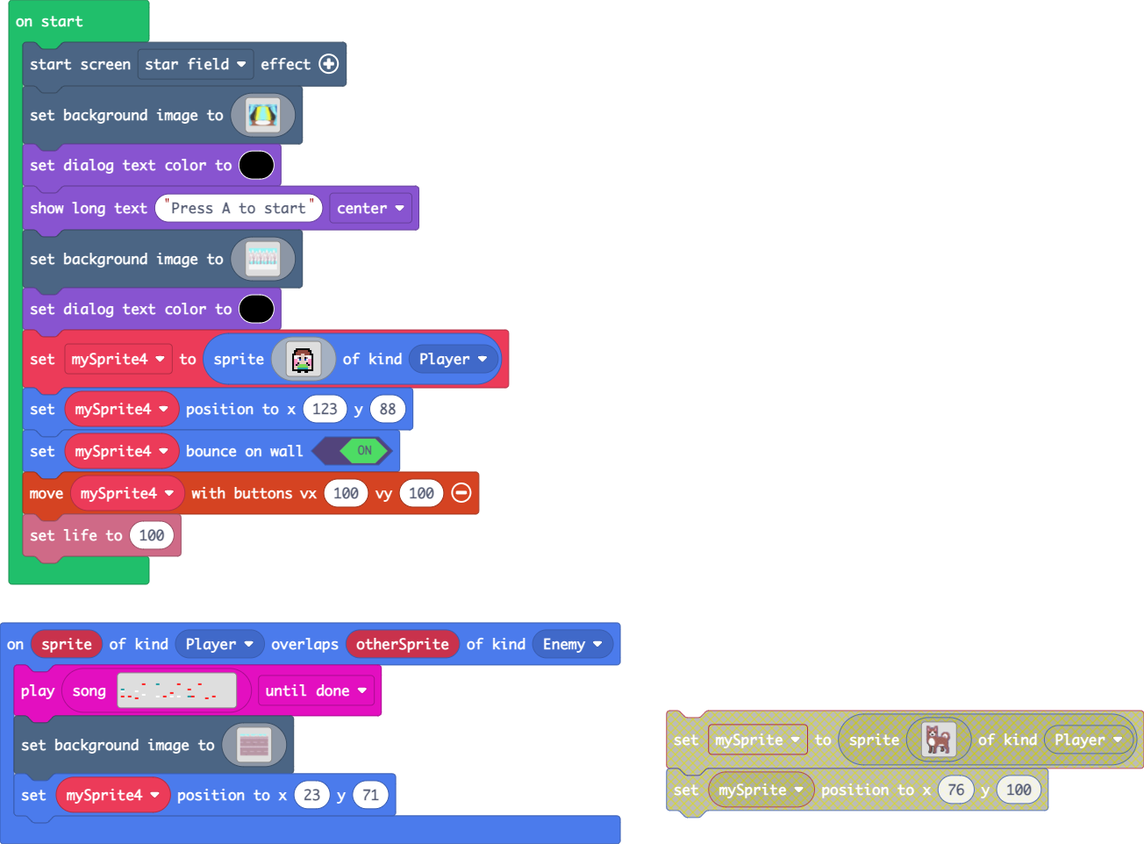
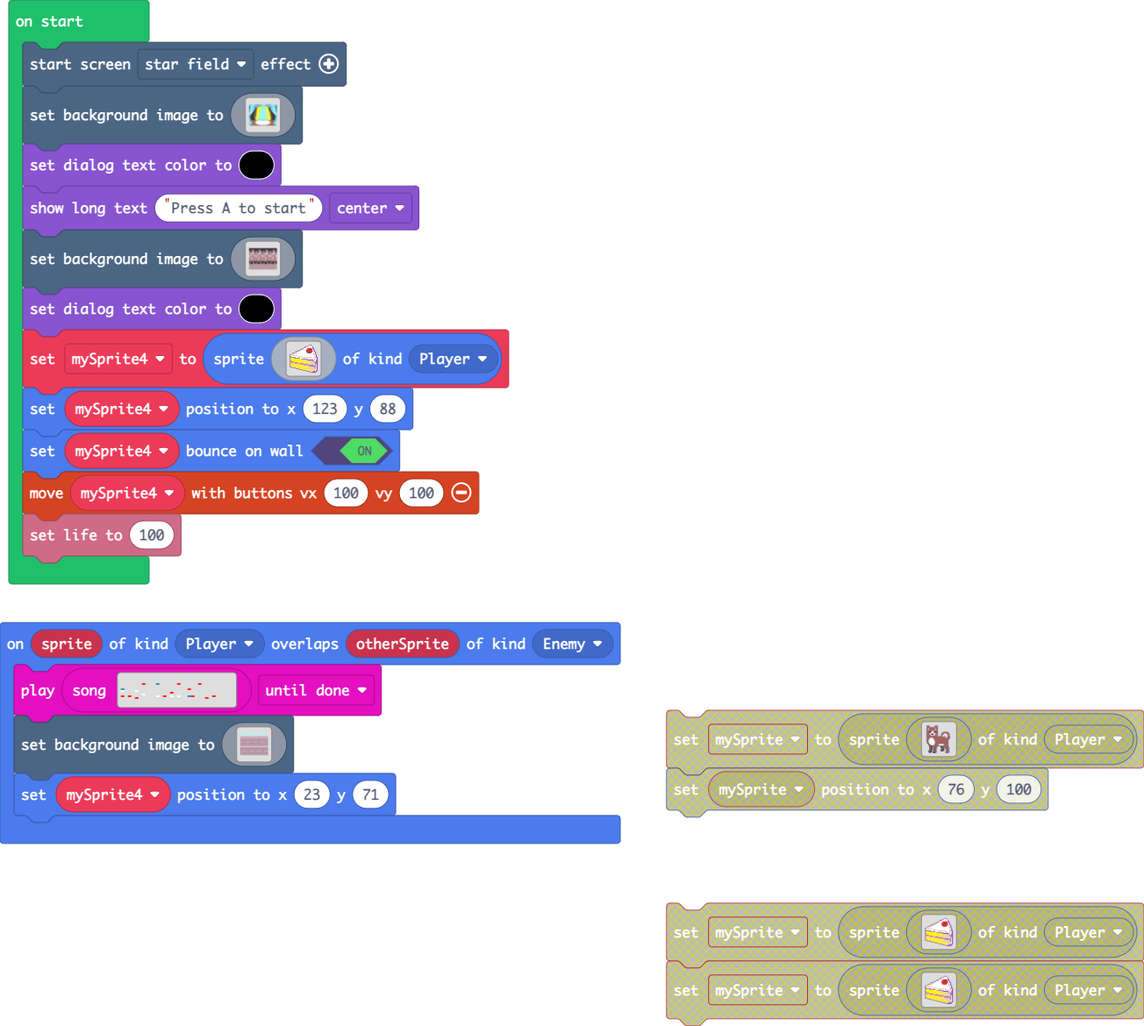
Added some art

diff --git a/images.g.ts b/images.g.ts
@@ -415,148 +415,6 @@ cee111111111eeeeeeeeeeeeeeeeeec..
[2 lines of base64/hex data omitted]
 `;
-            case "OFYbYQ+AI7Yoh2qY-Z]f":
-            case "Snow":return img`
-. . . . . . . . . . . . . 
-. . . . . . . . . . . . . 
-. . f f f f f f f f . . . 
-. f f e e e e e e f f . . 
-. f e e e e e e e e f . . 
-f f e e e d d e e e f f . 
-f 1 1 1 d d d d 1 1 1 f . 
-f 1 1 b f d d f b 1 1 f . 
-f 3 3 1 8 d d 8 1 3 3 f . 
-f 3 3 d d d d d d 3 3 f . 
-f 3 3 f d d d d f 3 3 f . 
-f 3 f b 7 7 7 7 b f 3 f . 
-f d d 7 7 7 7 7 7 d d f . 
-f d d 6 6 6 6 6 6 d d f . 
-f f f f f f f f f f f f . 
-. . . f f . . f f . . . . 
-`;
-            case "image2":
-            case "Winter_Tree_Background_Night":return img`
-ffffffffffffffffffffffffffffffffffffffffffffffffffffffffffffffffffffffffffffffffffffffffffffffffffffffffffffffffffffffffffffffffffffffffffffffffffffffffffffffff
-ffffffffffffffffffffffffffffffffffffffffffffffffffffffffffffffffffffffffffffffffffffffffffffffffffffffffffffffffffffffffffffffffffffffffffffffffffffffffffffffff
-ffffffffffffffffffffffffffffffffffffffffffffffffffffffffffffffffffffffffffffffffffffffffffffffffffffffffffffffffffffffffffffffffffffffffffffffffffffffffffffffff
-ffffffffffffffffffffffffffffffffffffffffffffffffffffffffffffffffffffffffffffffffffffffffffffffffffffffffffffffffffffffffffffffffffffffffffffffffffffffffffffffff
-ffffffffffffffffffffffffffffffffffffffffffffffffffffffffffffffffffffffffffffffffffffffffffffffffffffffffffffffffffffffffffffffffffffffffffffffffffffffffffffffff
-ffffffffffffffffffffffbbffffffffffffffffffffffffffffffffffffffbbffffffffffffffffffffffffffffffffffffffbbffffffffffffffffffffffffffffffffffffffbbffffffffffffffff
-fffffffffffffffffffffffbfffffffffffffffffffffffffffffffffffffffbfffffffffffffffffffffffffffffffffffffffbfffffffffffffffffffffffffffffffffffffffbffffffffffffffff
-fffffffffffffffffffffbbbbffffffffffffffffffffffffffffffffffffbbbbffffffffffffffffffffffffffffffffffffbbbbffffffffffffffffffffffffffffffffffffbbbbfffffffffffffff
-ffffffffffffffffffffbbbbbfffffffffffffffffffffffffffffffffffbbbbbfffffffffffffffffffffffffffffffffffbbbbbfffffffffffffffffffffffffffffffffffbbbbbfffffffffffffff
-fffffffffffffffffffbbbbbbbfffffffffffffffffffffffffffffffffbbbbbbbfffffffffffffffffffffffffffffffffbbbbbbbfffffffffffffffffffffffffffffffffbbbbbbbffffffffffffff
-fffffffffffffffffffbbbbbfbfffffffffffffffffffffffffffffffffbbbbbfbfffffffffffffffffffffffffffffffffbbbbbfbfffffffffffffffffffffffffffffffffbbbbbfbffffffffffffff
-ffffffffffffefffffffbbbbffffffffffffffffffffffffffffefffffffbbbbffffffffffffffffffffffffffffefffffffbbbbffffffffffffffffffffffffffffefffffffbbbbffffffffffffffff
-ffffffffffffeffffffbbbbbbbffffffffffffffffffffffffffeffffffbbbbbbbffffffffffffffffffffffffffeffffffbbbbbbbffffffffffffffffffffffffffeffffffbbbbbbbffffffffffffff
-ffffffffffffefffffbbbbbbbbffffffffffffffffffffffffffefffffbbbbbbbbffffffffffffffffffffffffffefffffbbbbbbbbffffffffffffffffffffffffffefffffbbbbbbbbffffffffffffff
-ffffffffffffeffffbbbbbbbbbbbffffffffffffffffffffffffeffffbbbbbbbbbbbffffffffffffffffffffffffeffffbbbbbbbbbbbffffffffffffffffffffffffeffffbbbbbbbbbbbffffffffffff
-ffbbffffffffeffbfbbbbbbbbbbbbbffffefffffffbbffffffffeffbfbbbbbbbbbbbbbffffefffffffbbffffffffeffbfbbbbbbbbbbbbbffffefffffffbbffffffffeffbfbbbbbbbbbbbbbffffefffff
-fbbbbbffffffeffbbbbbbbbbbbbbbbffffeffffffbbbbbffffffeffbbbbbbbbbbbbbbbffffeffffffbbbbbffffffeffbbbbbbbbbbbbbbbffffeffffffbbbbbffffffeffbbbbbbbbbbbbbbbffffefffff
-bbbbbbbbffffefffbbbbbbbbbbbbbbffffefffffbbbbbbbbffffefffbbbbbbbbbbbbbbffffefffffbbbbbbbbffffefffbbbbbbbbbbbbbbffffefffffbbbbbbbbffffefffbbbbbbbbbbbbbbffffefffff
-bbbbbbbbbffffeffffbbbbbbbbbbbbffffefffffbbbbbbbbbffffeffffbbbbbbbbbbbbffffefffffbbbbbbbbbffffeffffbbbbbbbbbbbbffffefffffbbbbbbbbbffffeffffbbbbbbbbbbbbffffefffff
[4 lines of base64/hex data omitted]
-bbbbebbffffffbbbbbbbbbbbbbbbbbeeffffffbbbbbbebbffffffbbbbbbbbbbbbbbbbbeeffffffbbbbbbebbffffffbbbbbbbbbbbbbbbbbeeffffffbbbbbbebbffffffbbbbbbbbbbbbbbbbbeeffffffbb
-bbbbebbbbfffffbbbbbbbbbbbbbbbeefffffffbbbbbbebbbbfffffbbbbbbbbbbbbbbbeefffffffbbbbbbebbbbfffffbbbbbbbbbbbbbbbeefffffffbbbbbbebbbbfffffbbbbbbbbbbbbbbbeefffffffbb
-bbbbebbbbbffffffbbbbdddddbbbbbbfffffffbbbbbbebbebbffffffbbbbdddddbbbbbbfffffffbbbbbbebbebbffffffbbbbdddddbbbbbbfffffffbbbbbbebbebbffffffbbbbdddddbbbbbbfffffffbb
[1 lines of base64/hex data omitted]
-bbbbebebbbffffdddddddddddbbdddbbbbbfffbbbbbbebebbbffffdddddddddddbbdddbbbbbfffbbbbbbebebbbffffdddddddddddbbdddbbbbbfffbbbbbbebebbbffffdddddddddddbbdddbbbbbfffbb
[2 lines of base64/hex data omitted]
-bbbeebbbbbdddddddddddddddddddbbbbbbbbbbbbbbeebbbbbdddddddddddddddddddbbbbbbbbbbbbbbeebbbbbdddddddddddddddddddbbbbbbbbbbbbbbeebbbbbdddddddddddddddddddbbbbbbbbbbb
-bbeebbbbddddddddddddddddbeebbbbbbbbbebbbbbeebbbbddddddddddddddddbeebbbbbbbbbebbbbbeebbbbddddddddddddddddbeebbbbbbbbbebbbbbeebbbbddddddddddddddddbeebbbbbbbbbebbb
[1 lines of base64/hex data omitted]
-bbebebbbbbbdddbddbbdddbbbeebbbeddbbbebbbbbebebbbbbbdddbddbbdddbbbeebbbeddbbbebbbbbebebbbbbbdddbddbbdddbbbeebbbeddbbbebbbbbebebbbbbbdddbddbbdddbbbeebbbeddbbbebbb
-beebebbbbbbdbbbdbbbbbdbbbeebbbebbbbbebbbbeebebbbbbbdbbbdbbbbbdbbbeebbbebbbbbebbbbeebebbbbbbdbbbdbbbbbdbbbeebbbebbbbbebbbbeebebbbbbbdbbbdbbbbbdbbbeebbbebbbbbebbb
-beeeebbbbbbbbdbbbddbbbbbbeebbbebbbbbbebbbeeeebbbbbbbbdbbbddbbbbbbeebbbebbbbbbebbbeeeebbbbbbbbdbbbddbbbbbbeebbbebbbbbbebbbeeeebbbbbbbbdbbbddbbbbbbeebbbebbbbbbebb
-beeebbbbbbbbddbbddbbbbbbbeebbbebbbbbbebbbeeebbbbbbbbddbbddbbbbbbbeebbbebbbbbbebbbeeebbbbbbbbddbbddbbbbbbbeebbbebbbbbbebbbeeebbbbbbbbddbbddbbbbbbbeebbbebbbbbbebb
-bebbbbbbbbbbdbbbbbbbebbbbeebbebbbbbbbeeebebbbbbbbbbbdbbbbbbbebbbbeebbebbbbbbbeeebebbbbbbbbbbdbbbbbbbebbbbeebbebbbbbbbeeebebbbbbbbbbbdbbbbbbbebbbbeebbbbbbbbbbeee
-eebbbbbbbbbbbbbbbbbbebbbbeeebebbbbbbbbbeeebbbbbbbbbbbbbbbbbbebbbbeeebebbbbbbbbbeeebbbbbbbbbbbbbbbbbbebbbbeeebebbbbbbbbbeeebbbbbbbbbbbbbbbbbbebbbbeeebbbbbbbbbbbe
-bebbbbbbbbbbbbbbbbbbebbbbeeeebbbbbbbbbbbbebbbbbbbbbbbbbbbbbbebbbbeeeebbbbbbbbbbbbebbbbbbbbbbbbbbbbbbebbbbeeeebbbbbbbbbbbbebbbbbbbbbbbbbbbbbbebbbbeeeebbbbbbbbbbb
-bebbbbbbbbbbbbbbbbbbebbbbeeeebbbdddbbbbbbebbbbbbbbbbbbbbbbbbebbbbeeeebbbdddbbbbbbebbbbbbbbbbbbbbbbbbebbbbeeeebbbdddbbbbbbebbbbbbbbbbbbbbbbbbebbbbeeeebbbdddbbbbb
-bedddbbdddbbbbbbbbbbebbbbeeebbbdddbbbbbbbedddbbdddbbbbbbbbbbebbbbeeebbbdddbbbbbbbedddbbdddbbbbbbbbbbebbbbeeebbbdddbbbbbbbedddbbdddbbbbbbbbbbebbbbeeebbbdddbbbbbb
-ddddddbbdddbbbbbbbbbebbbbeeebbdddbbdddddddddddbbeddbbbbbbbbbebbbbeeebbdddbbdddddddddddbbdddbbbbbbbbbebbbbeeebbdddbbdddddddddddbbdddbbbbbbbbbebbbbeeebbdddbbddddd
-ddddbbbbedddbbbbbbbbebbbbeeebbbbbdddddddddddbbbbedddbbbbbbbbebbbbeeebbbbbdddddddddddbbbbedddbbbbbbbbebbbbeeebbbbbdddddddddddbbbbedddbbbbbbbbebbbbeeebbbbbddddddd
-dddddddbebbbbbbbbebbebbbbeeebbbbdddddddddddddddbebbbbbbbbebbebbbbeeebbbbdddddddddddddddbebbbbbbbbebbebbbbeeebbbbdddddddddddddddbebbbbbbbbebbebbbbeeebbbbdddddddd
-ddddddddddbbbbbbbebbebbbbeeeebddddbdddddddddddddddbbbbbbbebbebbbbeeeebddddbdddddddddddddddbbbbbbbebbebbbbeeeebddddbdddddddddddddddbbbbbbbebbebbbbeeeebddddbddddd
-dddddbddddbbbbbbbebbebbbbeeeddddedbbddbddddddbddddbbbbbbbebbebbbbeeeddddedbbddbddddddbddddbbbbbbbebbebbbbeeeddddedbbddbddddddbddddbbbbbbbebbebbbbeeeddddedbbddbd
[2 lines of base64/hex data omitted]
-bbebbbbeeeebbbbbbbeeeebbbeeeebbbeebbbbbbbbebbbbeeeebbbbbbbeeeebbbeeeebbbeebbbbbbbbebbbbeeeebbbbbbbeeeebbbeeeebbbeebbbbbbbbebbbbeeeebbbbbbbeeeebbbeeeebbbeebbbbbb
-bbebbbbeebbbbbbbbbbeeebbbeeeebbbeebbbbbbbbeebbbeebbbbbbbbbbeeebbbeeeebbbeebbbbbbbbebbbbeebbbbbbbbbbeeebbbeeeebbbeebbbbbbbbebbbbeebbbbbbbbbbeeebbbeeeebbbeebbbbbb
-bbebbbbeebbbbbbbbbbbeeebbeeeebbbeebbbbbbbbebbbbeebbbbbbbbbbbeeebbeeeebbbeebbbbbbbbebbbbeebbbbbbbbbbbeeebbeeeebbbeebbbbbbbbebbbbeebbbbbbbbbbbeeebbeeeebbbeebbbbbb
-bbbebbbeebbbbbbbbbbbeeebbeeeebbbeebbbbbbbbeebbbeebbbbbbbbbbbeeebbeeeebbbeebbbbbbbbbebbbeebbbbbbbbbbbeeebbeeeebbbeebbbbbbbbbebbbeebbbbbbbbbbbeeebbeeeebbbeebbbbbb
-bbbeebeeebbbbddbdddbbdebbeeeebbbeebbebbbbbbeebeeebbbbddbdddbbdebbeeeebbbeebbebbbbbbeebeeebbbbddbdddbbdebbeeeebbbeebbebbbbbbeebeeebbbbddbdddbbdebbeeeebbbeebbebbb
-bbbeeeeeebbbddddddddddddbeeeeebbeebbebbbbbbeeeeeebbbddddddddddddbeeeeebbeebbebbbbbbeeeeeebbbddddddddddddbeeeeebbeebbebbbbbbeeeeeebbbddddddddddddbeeeeebbeebbebbb
-bbbbeeeeebbdddddddddddddeeeeeebeebbeebbbbbbbeeeeebbdddddddddddddeeeeeebeebbeebbbbbbbeeeeebbdddddddddddddeeeeeebeebbeebbbbbbbeeeeebbdddddddddddddeeeeeebeebbeebbb
[1 lines of base64/hex data omitted]
-bbbbbeeebbddbbddddddbdbbeeeeeebeebebbbbbbbbbbeeebbddbbddddddbdbbeeeeeebeebebbbbbbbbbbeeebbddbbddddddbdbbeeeeeebeebebbbbbbbbbbeeebbddbbddddddbdbbeeeeeebeebebbbbb
-bbbbbeeebbbbbddbbddbbdbbeeeeeebeeebbbbbbbbbbbeeebbbbbddbbddbbdbbeeeeeebeeebbbbbbbbbbbeeebbbbbddbbddbbdbbeeeeeebeeebbbbbbbbbbbeeebbbbbddbbddbbdbbeeeeeebeeebbbbbb
-bbbbbeeebbbebdbbbbbbbbbbbeeeeeeebbbbbbbbbbbbbeeebbbebdbbbbbbbbbbbeeeeeeebbbbbbbbbbbbbeeebbbebdbbbbbbbbbbbeeeeeeebbbbbbbbbbbbbeeebbbebdbbbbbbbbbbbeeeeeeebbbbbbbb
-bbbbbeeebbbebbbbbbbbbbbbbeeeeeeebbbbbbbbbbbbbeeebbbebbbbbbbbbbbbbeeeeeeebbbbbbbbbbbbbeeebbbebbbbbbbbbbbbbeeeeeeebbbbbbbbbbbbbeeebbbebbbbbbbbbbbbbeeeeeeebbbbbbbb
-bbbbbeeebbbebebbbbbbbbbbbeeeeeeebbbbbbbbbbbbbeeebbbebebbbbbbbbbbbeeeeeeebbbbbbbbbbbbbeeebbbebebbbbbbbbbbbeeeeeeebbbbbbbbbbbbbeeebbbebebbbbbbbbbbbeeeeeeebbbbbbbb
-bbbbbeeebbbebebbbbbbbbbbbeeeeeebbbbbbbbbbbbbbeeebbbebebbbbbbbbbbbeeeeeebbbbbbbbbbbbbbeeebbbebebbbbbbbbbbbeeeeeebbbbbbbbbbbbbbeeebbbebebbbbbbbbbbbeeeeeebbbbbbbbb
-bbbbbeeebbbebebbbbbbbbbbbeeeeebbbbbbbbbbbbbbbeeebbbebebbbbbbbbbbbeeeeebbbbbbbbbbbbbbbeeebbbebebbbbbbbbbbbeeeeebbbbbbbbbbbbbbbeeebbbebebbbbbbbbbbbeeeeebbbbbbbbbb
-bbbbbeebbbbeeebbbbbbbbbbbeeeeebbbbbbbbbbbbbbbeebbbbeeebbbbbbbbbbbeeeeebbbbbbbbbbbbbbbeebbbbeeebbbbbbbbbbbeeeeebbbbbbbbbbbbbbbeebbbbeeebbbbbbbbbbbeeeeebbbbbbbbbb
-bbbbbeebbbeeebbbbbbbbbbbbeeeeebbbbbbbbbbbbbbbeebbbeeebbbbbbbbbbbbeeeeebbbbbbbbbbbbbbbeebbbeeebbbbbbbbbbbbeeeeebbbbbbbbbbbbbbbeebbbeeebbbbbbbbbbbbeeeeebbbbbbbbbb
-bbbbeeebbbebbbbbbbbbddbbbeeeeebdbbbbbbbbbbbbeeebbbebbbbbbbbbddbbbeeeeebdbbbbbbbbbbbbeeebbbebbbbbbbbbddbbbeeeeebdbbbbbbbbbbbbeeebbbebbbbbbbbbddbbbeeeeebdbbbbbbbb
-bbbbeeebbbebbbbbbbbbbddbeeeeeebbddbbbbdbbbbbeeebbbebbbbbbbbbbddbeeeeeebbddbbbbdbbbbbeeebbbebbbbbbbbbbddbeeeeeebbddbbbbdbbbbbeeebbbebbbbbbbbbbddbeeeeeebbddbbbbdb
-bbbbeeebeeebbbbbbbbbbbbbeeeeeeebbdbbbddbbbbbeeebeeebbbbbbbbbbbbbeeeeeeebbdbbbddbbbbbeeebeeebbbbbbbbbbbbbeeeeeeebbdbbbddbbbbbeeebeeebbbbbbbbbbbbbeeeeeeebbdbbbddb
-ffbbeeeeeebbbbbbbbdbbbbbeeeeeeebbbbbbdbbffbbeeeeeebbbbbbbbdbbbbbeeeeeeebbbbbbdbbffbbeeeeeebbbbbbbbdbbbbbeeeeeeebbbbbbdbbffbbeeeeeebbbbbbbbdbbbbbeeeeeeebbbbbbdbb
-3ffbeeeeebbddbbbbddbbbbfeeeeeeefbbbbbbbbbffbeeeeebbddbbbbddbbbbfeeeeeeefbbbbbbbbbffbeeeeebbddbbbbddbbbbfeeeeeeefbbbbbbbbbffbeeeeebbddbbbbddbbbbfeeeeeeefbbbbbbbb
-3fffeeeeebbbddbbddbbfbffeeeeeeefbbbfbbbbbfffeeeeebbbddbbddbbfbffeeeeeeefbbbfbbbbbfffeeeeebbbddbbddbbfbffeeeeeeefbbbfbbbbbfffeeeeebbbddbbddbbfbffeeeeeeefbbbfbbbb
-3fffeeebbbbbbbbbdbbfffffeeeeeeeffbffbbfbbfffeeebbbbbbbbbdbbfffffeeeeeeeffbffbbfbbfffeeebbbbbbbbbdbbfffffeeeeeeeffbffbbfbbfffeeebbbbbbbbbdbbfffffeeeeeeeffbffbbfb
-ffffeeefbbbbbbbbbbbfffffeeeeeeeffffbbfffffffeeefbbbbbbbbbbbfffffeeeeeeeffffbbfffffffeeefbbbbbbbbbbbfffffeeeeeeeffffbbfffffffeeefbbbbbbbbbbbfffffeeeeeeeffffbbfff
-ffffeeefbbbfbbfffbbfffffeeeeeeefffffffffffffeeefbbbfbbfffbbfffffeeeeeeefffffffffffffeeefbbbfbbfffbbfffffeeeeeeefffffffffffffeeefbbbfbbfffbbfffffeeeeeeefffffffff
-ffffeeefbbfffbffffbfffffeeeeeeefffffffffffffeeefbbfffbffffbfffffeeeeeeefffffffffffffeeefbbfffbffffbfffffeeeeeeefffffffffffffeeefbbfffbffffbfffffeeeeeeefffffffff
-ffffeeefffffffffffffffffeeeeeeefffffffffffffeeefffffffffffffffffeeeeeeefffffffffffffeeefffffffffffffffffeeeeeeefffffffffffffeeefffffffffffffffffeeeeeeefffffffff
[2 lines of base64/hex data omitted]
-ffffeeeeffffffffffffffffeeeeeeefffffffffffffeeeeffffffffffffffffeeeeeeefffffffffffffeeeeffffffffffffffffeeeeeeefffffffffffffeeeeffffffffffffffffeeeeeeefffffffff
-ffffeeeeffffffffffffffffeeeeeeefffffffffffffeeeeffffffffffffffffeeeeeeefffffffffffffeeeeffffffffffffffffeeeeeeefffffffffffffeeeeffffffffffffffffeeeeeeefffffffff
-ffffeeeeffffffffffffffffeeeeeeefffffffffffffeeeeffffffffffffffffeeeeeeefffffffffffffeeeeffffffffffffffffeeeeeeefffffffffffffeeeeffffffffffffffffeeeeeeefffffffff
[1 lines of base64/hex data omitted]
-ffffeeeeefffffffffffffffeeeeeeefffffffffffffeeeeefffffffffffffffeeeeeeefffffffffffffeeeeefffffffffffffffeeeeeeefffffffffffffeeeeefffffffffffffffeeeeeeefffffffff
-ffffeeeeefffffffffffffffeeeeeeefffffffffffffeeeeefffffffffffffffeeeeeeefffffffffffffeeeeefffffffffffffffeeeeeeefffffffffffffeeeeefffffffffffffffeeeeeeefffffffff
[6 lines of base64/hex data omitted]
-bbbbbbbbbbbbbbbbbbbbbbbbbbbbbbbbbbbbbbbbbbbbbbbbbbbbbbbbbbbbbbbbbbbbbbbbbbbbbbbbbbbbbbbbbbbbbbbbbbbbbbbbbbbbbbbbbbbbbbbbbbbbbbbbbbbbbbbbbbbbbbbbbbbbbbbbbbbbbbbb
-bbbbbbbbbbbbbbbbbbbbbbbbbbbbbbbbbbbbbbbbbbbbbbbbbbbbbbbbbbbbbbbbbbbbbbbbbbbbbbbbbbbbbbbbbbbbbbbbbbbbbbbbbbbbbbbbbbbbbbbbbbbbbbbbbbbbbbbbbbbbbbbbbbbbbbbbbbbbbbbb
-bbbbbbbbbbbbbbbbbbbbbbbbbbbbbbbbbbbbbbbbbbbbbbbbbbbbbbbbbbbbbbbbbbbbbbbbbbbbbbbbbbbbbbbbbbbbbbbbbbbbbbbbbbbbbbbbbbbbbbbbbbbbbbbbbbbbbbbbbbbbbbbbbbbbbbbbbbbbbbbb
-bbbbbbbbbbbbbbbbbbbbbbbbbbbbbbbbbbbbbbbbbbbbbbbbbbbbbbbbbbbbbbbbbbbbbbbbbbbbbbbbbbbbbbbbbbbbbbbbbbbbbbbbbbbbbbbbbbbbbbbbbbbbbbbbbbbbbbbbbbbbbbbbbbbbbbbbbbbbbbbb
-bbbbbbbbbbbbbbbbbbbbbbbbbbbbbbbbbbbbbbbbbbbbbbbbbbbbbbbbbbbbbbbbbbbbbbbbbbbbbbbbbbbbbbbbbbbbbbbbbbbbbbbbbbbbbbbbbbbbbbbbbbbbbbbbbbbbbbbbbbbbbbbbbbbbbbbbbbbbbbbb
-bbbbbbbbbbbbbbbbbbbbbbbbbbbbbbbbbbbbbbbbbbbbbbbbbbbbbbbbbbbbbbbbbbbbbbbbbbbbbbbbbbbbbbbbbbbbbbbbbbbbbbbbbbbbbbbbbbbbbbbbbbbbbbbbbbbbbbbbbbbbbbbbbbbbbbbbbbbbbbbb
-bbbbbbbbbbbbbbbbbbbbbbbbbbbbbbbbbbbbbbbbbbbbbbbbbbbbbbbbbbbbbbbbbbbbbbbbbbbbbbbbbbbbbbbbbbbbbbbbbbbbbbbbbbbbbbbbbbbbbbbbbbbbbbbbbbbbbbbbbbbbbbbbbbbbbbbbbbbbbbbb
-bbbbbbbbbbbbbbbbbbbbbbbbbbbbbbbbbbbbbbbbbbbbbbbbbbbbbbbbbbbbbbbbbbbbbbbbbbbbbbbbbbbbbbbbbbbbbbbbbbbbbbbbbbbbbbbbbbbbbbbbbbbbbbbbbbbbbbbbbbbbbbbbbbbbbbbbbbbbbbbb
-bbbbbbbbbbbbbbbbbbbbbbbbbbbbbbbbbbbbbbbbbbbbbbbbbbbbbbbbbbbbbbbbbbbbbbbbbbbbbbbbbbbbbbbbbbbbbbbbbbbbbbbbbbbbbbbbbbbbbbbbbbbbbbbbbbbbbbbbbbbbbbbbbbbbbbbbbbbbbbbb
-bbbbbbbbbbbbbbbbbbbbbbbbbbbbbbbbbbbbbbbbbbbbbbbbbbbbbbbbbbbbbbbbbbbbbbbbbbbbbbbbbbbbbbbbbbbbbbbbbbbbbbbbbbbbbbbbbbbbbbbbbbbbbbbbbbbbbbbbbbbbbbbbbbbbbbbbbbbbbbbb
-bbbbbbbbbbbbbbbbbbbbbbbbbbbbbbbbbbbbbbbbbbbbbbbbbbbbbbbbbbbbbbbbbbbbbbbbbbbbbbbbbbbbbbbbbbbbbbbbbbbbbbbbbbbbbbbbbbbbbbbbbbbbbbbbbbbbbbbbbbbbbbbbbbbbbbbbbbbbbbbb
-bbbbbbbbbbbbbbbbbbbbbbbbbbbbbbbbbbbbbbbbbbbbbbbbbbbbbbbbbbbbbbbbbbbbbbbbbbbbbbbbbbbbbbbbbbbbbbbbbbbbbbbbbbbbbbbbbbbbbbbbbbbbbbbbbbbbbbbbbbbbbbbbbbbbbbbbbbbbbbbb
-bbbbbbbbbbbbbbbbbbbbbbbbbbbbbbbbbbbbbbbbbbbbbbbbbbbbbbbbbbbbbbbbbbbbbbbbbbbbbbbbbbbbbbbbbbbbbbbbbbbbbbbbbbbbbbbbbbbbbbbbbbbbbbbbbbbbbbbbbbbbbbbbbbbbbbbbbbbbbbbb
-bbbbbbbbbbbbbbbbbbbbbbbbbbbbbbbbbbbbbbbbbbbbbbbbbbbbbbbbbbbbbbbbbbbbbbbbbbbbbbbbbbbbbbbbbbbbbbbbbbbbbbbbbbbbbbbbbbbbbbbbbbbbbbbbbbbbbbbbbbbbbbbbbbbbbbbbbbbbbbbb
-bbbbbbbbbbbbbbbbbbbbbbbbbbbbbbbbbbbbbbbbbbbbbbbbbbbbbbbbbbbbbbbbbbbbbbbbbbbbbbbbbbbbbbbbbbbbbbbbbbbbbbbbbbbbbbbbbbbbbbbbbbbbbbbbbbbbbbbbbbbbbbbbbbbbbbbbbbbbbbbb
-bbbbbbbbbbbbbbbbbbbbbbbbbbbbbbbbbbbbbbbbbbbbbbbbbbbbbbbbbbbbbbbbbbbbbbbbbbbbbbbbbbbbbbbbbbbbbbbbbbbbbbbbbbbbbbbbbbbbbbbbbbbbbbbbbbbbbbbbbbbbbbbbbbbbbbbbbbbbbbbb
-bbbbbbbbbbbbbbbbbbbbbbbbbbbbbbbbbbbbbbbbbbbbbbbbbbbbbbbbbbbbbbbbbbbbbbbbbbbbbbbbbbbbbbbbbbbbbbbbbbbbbbbbbbbbbbbbbbbbbbbbbbbbbbbbbbbbbbbbbbbbbbbbbbbbbbbbbbbbbbbb
-bbbbbbbbbbbbbbbbbbbbbbbbbbbbbbbbbbbbbbbbbbbbbbbbbbbbbbbbbbbbbbbbbbbbbbbbbbbbbbbbbbbbbbbbbbbbbbbbbbbbbbbbbbbbbbbbbbbbbbbbbbbbbbbbbbbbbbbbbbbbbbbbbbbbbbbbbbbbbbbb
-bbbbbbbbbbbbbbbbbbbbbbbbbbbbbbbbbbbbbbbbbbbbbbbbbbbbbbbbbbbbbbbbbbbbbbbbbbbbbbbbbbbbbbbbbbbbbbbbbbbbbbbbbbbbbbbbbbbbbbbbbbbbbbbbbbbbbbbbbbbbbbbbbbbbbbbbbbbbbbbb
-bbbbbbbbbbbbbbbbbbbbbbbbbbbbbbbbbbbbbbbbbbbbbbbbbbbbbbbbbbbbbbbbbbbbbbbbbbbbbbbbbbbbbbbbbbbbbbbbbbbbbbbbbbbbbbbbbbbbbbbbbbbbbbbbbbbbbbbbbbbbbbbbbbbbbbbbbbbbbbbb
-bbbbbbbbbbbbbbbbbbbbbbbbbbbbbbbbbbbbbbbbbbbbbbbbbbbbbbbbbbbbbbbbbbbbbbbbbbbbbbbbbbbbbbbbbbbbbbbbbbbbbbbbbbbbbbbbbbbbbbbbbbbbbbbbbbbbbbbbbbbbbbbbbbbbbbbbbbbbbbbb
-bbbbbbbbbbbbbbbbbbbbbbbbbbbbbbbbbbbbbbbbbbbbbbbbbbbbbbbbbbbbbbbbbbbbbbbbbbbbbbbbbbbbbbbbbbbbbbbbbbbbbbbbbbbbbbbbbbbbbbbbbbbbbbbbbbbbbbbbbbbbbbbbbbbbbbbbbbbbbbbb
-bbbbbbbbbbbbbbbbbbbbbbbbbbbbbbbbbbbbbbbbbbbbbbbbbbbbbbbbbbbbbbbbbbbbbbbbbbbbbbbbbbbbbbbbbbbbbbbbbbbbbbbbbbbbbbbbbbbbbbbbbbbbbbbbbbbbbbbbbbbbbbbbbbbbbbbbbbbbbbbb
-bbbbbbbbbbbbbbbbbbbbbbbbbbbbbbbbbbbbbbbbbbbbbbbbbbbbbbbbbbbbbbbbbbbbbbbbbbbbbbbbbbbbbbbbbbbbbbbbbbbbbbbbbbbbbbbbbbbbbbbbbbbbbbbbbbbbbbbbbbbbbbbbbbbbbbbbbbbbbbbb
-bbbbbbbbbbbbbbbbbbbbbbbbbbbbbbbbbbbbbbbbbbbbbbbbbbbbbbbbbbbbbbbbbbbbbbbbbbbbbbbbbbbbbbbbbbbbbbbbbbbbbbbbbbbbbbbbbbbbbbbbbbbbbbbbbbbbbbbbbbbbbbbbbbbbbbbbbbbbbbbb
-bbbbbbbbbbbbbbbbbbbbbbbbbbbbbbbbbbbbbbbbbbbbbbbbbbbbbbbbbbbbbbbbbbbbbbbbbbbbbbbbbbbbbbbbbbbbbbbbbbbbbbbbbbbbbbbbbbbbbbbbbbbbbbbbbbbbbbbbbbbbbbbbbbbbbbbbbbbbbbbb
-bbbbbbbbbbbbbbbbbbbbbbbbbbbbbbbbbbbbbbbbbbbbbbbbbbbbbbbbbbbbbbbbbbbbbbbbbbbbbbbbbbbbbbbbbbbbbbbbbbbbbbbbbbbbbbbbbbbbbbbbbbbbbbbbbbbbbbbbbbbbbbbbbbbbbbbbbbbbbbbb
-bbbbbbbbbbbbbbbbbbbbbbbbbbbbbbbbbbbbbbbbbbbbbbbbbbbbbbbbbbbbbbbbbbbbbbbbbbbbbbbbbbbbbbbbbbbbbbbbbbbbbbbbbbbbbbbbbbbbbbbbbbbbbbbbbbbbbbbbbbbbbbbbbbbbbbbbbbbbbbbb
-bbbbbbbbbbbbbbbbbbbbbbbbbbbbbbbbbbbbbbbbbbbbbbbbbbbbbbbbbbbbbbbbbbbbbbbbbbbbbbbbbbbbbbbbbbbbbbbbbbbbbbbbbbbbbbbbbbbbbbbbbbbbbbbbbbbbbbbbbbbbbbbbbbbbbbbbbbbbbbbb
-`;
             case "image1":
             case "Winter_Tree_Background_Day":return img`
 9999999999999999999999999999999999999999999999999999999999999999999999999999999999999999999999999999999999999999999999999999999999999999999999999999999999999999
@@ -747,6 +605,164 @@ e 5 4 4 5 5 5 5 5 5 4 4 5 e . .
 . . . f 5 5 5 5 5 4 5 5 f f . . 
 . . . f 5 f f f 5 f f 5 f . . . 
 . . . f f . . f f . . f f . . . 
+`;
+            case "image2":
+            case "Winter_Tree_Background_Night":return img`
+ffffffffffffffffffffffffffffffffffffffffffffffffffffffffffffffffffffffffffffffffffffffffffffffffffffffffffffffffffffffffffffffffffffffffffffffffffffffffffffffff
+ffffffffffffffffffffffffffffffffffffffffffffffffffffffffffffffffffffffffffffffffffffffffffffffffffffffffffffffffffffffffffffffffffffffffffffffffffffffffffffffff
+ffffffffffffffffffffffffffffffffffffffffffffffffffffffffffffffffffffffffffffffffffffffffffffffffffffffffffffffffffffffffffffffffffffffffffffffffffffffffffffffff
+ffffffffffffffffffffffffffffffffffffffffffffffffffffffffffffffffffffffffffffffffffffffffffffffffffffffffffffffffffffffffffffffffffffffffffffffffffffffffffffffff
+ffffffffffffffffffffffffffffffffffffffffffffffffffffffffffffffffffffffffffffffffffffffffffffffffffffffffffffffffffffffffffffffffffffffffffffffffffffffffffffffff
+ffffffffffffffffffffffbbffffffffffffffffffffffffffffffffffffffbbffffffffffffffffffffffffffffffffffffffbbffffffffffffffffffffffffffffffffffffffbbffffffffffffffff
+fffffffffffffffffffffffbfffffffffffffffffffffffffffffffffffffffbfffffffffffffffffffffffffffffffffffffffbfffffffffffffffffffffffffffffffffffffffbffffffffffffffff
+fffffffffffffffffffffbbbbffffffffffffffffffffffffffffffffffffbbbbffffffffffffffffffffffffffffffffffffbbbbffffffffffffffffffffffffffffffffffffbbbbfffffffffffffff
+ffffffffffffffffffffbbbbbfffffffffffffffffffffffffffffffffffbbbbbfffffffffffffffffffffffffffffffffffbbbbbfffffffffffffffffffffffffffffffffffbbbbbfffffffffffffff
+fffffffffffffffffffbbbbbbbfffffffffffffffffffffffffffffffffbbbbbbbfffffffffffffffffffffffffffffffffbbbbbbbfffffffffffffffffffffffffffffffffbbbbbbbffffffffffffff
+fffffffffffffffffffbbbbbfbfffffffffffffffffffffffffffffffffbbbbbfbfffffffffffffffffffffffffffffffffbbbbbfbfffffffffffffffffffffffffffffffffbbbbbfbffffffffffffff
+ffffffffffffefffffffbbbbffffffffffffffffffffffffffffefffffffbbbbffffffffffffffffffffffffffffefffffffbbbbffffffffffffffffffffffffffffefffffffbbbbffffffffffffffff
+ffffffffffffeffffffbbbbbbbffffffffffffffffffffffffffeffffffbbbbbbbffffffffffffffffffffffffffeffffffbbbbbbbffffffffffffffffffffffffffeffffffbbbbbbbffffffffffffff
+ffffffffffffefffffbbbbbbbbffffffffffffffffffffffffffefffffbbbbbbbbffffffffffffffffffffffffffefffffbbbbbbbbffffffffffffffffffffffffffefffffbbbbbbbbffffffffffffff
+ffffffffffffeffffbbbbbbbbbbbffffffffffffffffffffffffeffffbbbbbbbbbbbffffffffffffffffffffffffeffffbbbbbbbbbbbffffffffffffffffffffffffeffffbbbbbbbbbbbffffffffffff
+ffbbffffffffeffbfbbbbbbbbbbbbbffffefffffffbbffffffffeffbfbbbbbbbbbbbbbffffefffffffbbffffffffeffbfbbbbbbbbbbbbbffffefffffffbbffffffffeffbfbbbbbbbbbbbbbffffefffff
+fbbbbbffffffeffbbbbbbbbbbbbbbbffffeffffffbbbbbffffffeffbbbbbbbbbbbbbbbffffeffffffbbbbbffffffeffbbbbbbbbbbbbbbbffffeffffffbbbbbffffffeffbbbbbbbbbbbbbbbffffefffff
+bbbbbbbbffffefffbbbbbbbbbbbbbbffffefffffbbbbbbbbffffefffbbbbbbbbbbbbbbffffefffffbbbbbbbbffffefffbbbbbbbbbbbbbbffffefffffbbbbbbbbffffefffbbbbbbbbbbbbbbffffefffff
+bbbbbbbbbffffeffffbbbbbbbbbbbbffffefffffbbbbbbbbbffffeffffbbbbbbbbbbbbffffefffffbbbbbbbbbffffeffffbbbbbbbbbbbbffffefffffbbbbbbbbbffffeffffbbbbbbbbbbbbffffefffff
[4 lines of base64/hex data omitted]
+bbbbebbffffffbbbbbbbbbbbbbbbbbeeffffffbbbbbbebbffffffbbbbbbbbbbbbbbbbbeeffffffbbbbbbebbffffffbbbbbbbbbbbbbbbbbeeffffffbbbbbbebbffffffbbbbbbbbbbbbbbbbbeeffffffbb
+bbbbebbbbfffffbbbbbbbbbbbbbbbeefffffffbbbbbbebbbbfffffbbbbbbbbbbbbbbbeefffffffbbbbbbebbbbfffffbbbbbbbbbbbbbbbeefffffffbbbbbbebbbbfffffbbbbbbbbbbbbbbbeefffffffbb
+bbbbebbbbbffffffbbbbdddddbbbbbbfffffffbbbbbbebbebbffffffbbbbdddddbbbbbbfffffffbbbbbbebbebbffffffbbbbdddddbbbbbbfffffffbbbbbbebbebbffffffbbbbdddddbbbbbbfffffffbb
[1 lines of base64/hex data omitted]
+bbbbebebbbffffdddddddddddbbdddbbbbbfffbbbbbbebebbbffffdddddddddddbbdddbbbbbfffbbbbbbebebbbffffdddddddddddbbdddbbbbbfffbbbbbbebebbbffffdddddddddddbbdddbbbbbfffbb
[2 lines of base64/hex data omitted]
+bbbeebbbbbdddddddddddddddddddbbbbbbbbbbbbbbeebbbbbdddddddddddddddddddbbbbbbbbbbbbbbeebbbbbdddddddddddddddddddbbbbbbbbbbbbbbeebbbbbdddddddddddddddddddbbbbbbbbbbb
+bbeebbbbddddddddddddddddbeebbbbbbbbbebbbbbeebbbbddddddddddddddddbeebbbbbbbbbebbbbbeebbbbddddddddddddddddbeebbbbbbbbbebbbbbeebbbbddddddddddddddddbeebbbbbbbbbebbb
[1 lines of base64/hex data omitted]
+bbebebbbbbbdddbddbbdddbbbeebbbeddbbbebbbbbebebbbbbbdddbddbbdddbbbeebbbeddbbbebbbbbebebbbbbbdddbddbbdddbbbeebbbeddbbbebbbbbebebbbbbbdddbddbbdddbbbeebbbeddbbbebbb
+beebebbbbbbdbbbdbbbbbdbbbeebbbebbbbbebbbbeebebbbbbbdbbbdbbbbbdbbbeebbbebbbbbebbbbeebebbbbbbdbbbdbbbbbdbbbeebbbebbbbbebbbbeebebbbbbbdbbbdbbbbbdbbbeebbbebbbbbebbb
+beeeebbbbbbbbdbbbddbbbbbbeebbbebbbbbbebbbeeeebbbbbbbbdbbbddbbbbbbeebbbebbbbbbebbbeeeebbbbbbbbdbbbddbbbbbbeebbbebbbbbbebbbeeeebbbbbbbbdbbbddbbbbbbeebbbebbbbbbebb
+beeebbbbbbbbddbbddbbbbbbbeebbbebbbbbbebbbeeebbbbbbbbddbbddbbbbbbbeebbbebbbbbbebbbeeebbbbbbbbddbbddbbbbbbbeebbbebbbbbbebbbeeebbbbbbbbddbbddbbbbbbbeebbbebbbbbbebb
+bebbbbbbbbbbdbbbbbbbebbbbeebbebbbbbbbeeebebbbbbbbbbbdbbbbbbbebbbbeebbebbbbbbbeeebebbbbbbbbbbdbbbbbbbebbbbeebbebbbbbbbeeebebbbbbbbbbbdbbbbbbbebbbbeebbbbbbbbbbeee
+eebbbbbbbbbbbbbbbbbbebbbbeeebebbbbbbbbbeeebbbbbbbbbbbbbbbbbbebbbbeeebebbbbbbbbbeeebbbbbbbbbbbbbbbbbbebbbbeeebebbbbbbbbbeeebbbbbbbbbbbbbbbbbbebbbbeeebbbbbbbbbbbe
+bebbbbbbbbbbbbbbbbbbebbbbeeeebbbbbbbbbbbbebbbbbbbbbbbbbbbbbbebbbbeeeebbbbbbbbbbbbebbbbbbbbbbbbbbbbbbebbbbeeeebbbbbbbbbbbbebbbbbbbbbbbbbbbbbbebbbbeeeebbbbbbbbbbb
+bebbbbbbbbbbbbbbbbbbebbbbeeeebbbdddbbbbbbebbbbbbbbbbbbbbbbbbebbbbeeeebbbdddbbbbbbebbbbbbbbbbbbbbbbbbebbbbeeeebbbdddbbbbbbebbbbbbbbbbbbbbbbbbebbbbeeeebbbdddbbbbb
+bedddbbdddbbbbbbbbbbebbbbeeebbbdddbbbbbbbedddbbdddbbbbbbbbbbebbbbeeebbbdddbbbbbbbedddbbdddbbbbbbbbbbebbbbeeebbbdddbbbbbbbedddbbdddbbbbbbbbbbebbbbeeebbbdddbbbbbb
+ddddddbbdddbbbbbbbbbebbbbeeebbdddbbdddddddddddbbeddbbbbbbbbbebbbbeeebbdddbbdddddddddddbbdddbbbbbbbbbebbbbeeebbdddbbdddddddddddbbdddbbbbbbbbbebbbbeeebbdddbbddddd
+ddddbbbbedddbbbbbbbbebbbbeeebbbbbdddddddddddbbbbedddbbbbbbbbebbbbeeebbbbbdddddddddddbbbbedddbbbbbbbbebbbbeeebbbbbdddddddddddbbbbedddbbbbbbbbebbbbeeebbbbbddddddd
+dddddddbebbbbbbbbebbebbbbeeebbbbdddddddddddddddbebbbbbbbbebbebbbbeeebbbbdddddddddddddddbebbbbbbbbebbebbbbeeebbbbdddddddddddddddbebbbbbbbbebbebbbbeeebbbbdddddddd
+ddddddddddbbbbbbbebbebbbbeeeebddddbdddddddddddddddbbbbbbbebbebbbbeeeebddddbdddddddddddddddbbbbbbbebbebbbbeeeebddddbdddddddddddddddbbbbbbbebbebbbbeeeebddddbddddd
+dddddbddddbbbbbbbebbebbbbeeeddddedbbddbddddddbddddbbbbbbbebbebbbbeeeddddedbbddbddddddbddddbbbbbbbebbebbbbeeeddddedbbddbddddddbddddbbbbbbbebbebbbbeeeddddedbbddbd
[2 lines of base64/hex data omitted]
+bbebbbbeeeebbbbbbbeeeebbbeeeebbbeebbbbbbbbebbbbeeeebbbbbbbeeeebbbeeeebbbeebbbbbbbbebbbbeeeebbbbbbbeeeebbbeeeebbbeebbbbbbbbebbbbeeeebbbbbbbeeeebbbeeeebbbeebbbbbb
+bbebbbbeebbbbbbbbbbeeebbbeeeebbbeebbbbbbbbeebbbeebbbbbbbbbbeeebbbeeeebbbeebbbbbbbbebbbbeebbbbbbbbbbeeebbbeeeebbbeebbbbbbbbebbbbeebbbbbbbbbbeeebbbeeeebbbeebbbbbb
+bbebbbbeebbbbbbbbbbbeeebbeeeebbbeebbbbbbbbebbbbeebbbbbbbbbbbeeebbeeeebbbeebbbbbbbbebbbbeebbbbbbbbbbbeeebbeeeebbbeebbbbbbbbebbbbeebbbbbbbbbbbeeebbeeeebbbeebbbbbb
+bbbebbbeebbbbbbbbbbbeeebbeeeebbbeebbbbbbbbeebbbeebbbbbbbbbbbeeebbeeeebbbeebbbbbbbbbebbbeebbbbbbbbbbbeeebbeeeebbbeebbbbbbbbbebbbeebbbbbbbbbbbeeebbeeeebbbeebbbbbb
+bbbeebeeebbbbddbdddbbdebbeeeebbbeebbebbbbbbeebeeebbbbddbdddbbdebbeeeebbbeebbebbbbbbeebeeebbbbddbdddbbdebbeeeebbbeebbebbbbbbeebeeebbbbddbdddbbdebbeeeebbbeebbebbb
+bbbeeeeeebbbddddddddddddbeeeeebbeebbebbbbbbeeeeeebbbddddddddddddbeeeeebbeebbebbbbbbeeeeeebbbddddddddddddbeeeeebbeebbebbbbbbeeeeeebbbddddddddddddbeeeeebbeebbebbb
+bbbbeeeeebbdddddddddddddeeeeeebeebbeebbbbbbbeeeeebbdddddddddddddeeeeeebeebbeebbbbbbbeeeeebbdddddddddddddeeeeeebeebbeebbbbbbbeeeeebbdddddddddddddeeeeeebeebbeebbb
[1 lines of base64/hex data omitted]
+bbbbbeeebbddbbddddddbdbbeeeeeebeebebbbbbbbbbbeeebbddbbddddddbdbbeeeeeebeebebbbbbbbbbbeeebbddbbddddddbdbbeeeeeebeebebbbbbbbbbbeeebbddbbddddddbdbbeeeeeebeebebbbbb
+bbbbbeeebbbbbddbbddbbdbbeeeeeebeeebbbbbbbbbbbeeebbbbbddbbddbbdbbeeeeeebeeebbbbbbbbbbbeeebbbbbddbbddbbdbbeeeeeebeeebbbbbbbbbbbeeebbbbbddbbddbbdbbeeeeeebeeebbbbbb
+bbbbbeeebbbebdbbbbbbbbbbbeeeeeeebbbbbbbbbbbbbeeebbbebdbbbbbbbbbbbeeeeeeebbbbbbbbbbbbbeeebbbebdbbbbbbbbbbbeeeeeeebbbbbbbbbbbbbeeebbbebdbbbbbbbbbbbeeeeeeebbbbbbbb
+bbbbbeeebbbebbbbbbbbbbbbbeeeeeeebbbbbbbbbbbbbeeebbbebbbbbbbbbbbbbeeeeeeebbbbbbbbbbbbbeeebbbebbbbbbbbbbbbbeeeeeeebbbbbbbbbbbbbeeebbbebbbbbbbbbbbbbeeeeeeebbbbbbbb
+bbbbbeeebbbebebbbbbbbbbbbeeeeeeebbbbbbbbbbbbbeeebbbebebbbbbbbbbbbeeeeeeebbbbbbbbbbbbbeeebbbebebbbbbbbbbbbeeeeeeebbbbbbbbbbbbbeeebbbebebbbbbbbbbbbeeeeeeebbbbbbbb
+bbbbbeeebbbebebbbbbbbbbbbeeeeeebbbbbbbbbbbbbbeeebbbebebbbbbbbbbbbeeeeeebbbbbbbbbbbbbbeeebbbebebbbbbbbbbbbeeeeeebbbbbbbbbbbbbbeeebbbebebbbbbbbbbbbeeeeeebbbbbbbbb
+bbbbbeeebbbebebbbbbbbbbbbeeeeebbbbbbbbbbbbbbbeeebbbebebbbbbbbbbbbeeeeebbbbbbbbbbbbbbbeeebbbebebbbbbbbbbbbeeeeebbbbbbbbbbbbbbbeeebbbebebbbbbbbbbbbeeeeebbbbbbbbbb
+bbbbbeebbbbeeebbbbbbbbbbbeeeeebbbbbbbbbbbbbbbeebbbbeeebbbbbbbbbbbeeeeebbbbbbbbbbbbbbbeebbbbeeebbbbbbbbbbbeeeeebbbbbbbbbbbbbbbeebbbbeeebbbbbbbbbbbeeeeebbbbbbbbbb
+bbbbbeebbbeeebbbbbbbbbbbbeeeeebbbbbbbbbbbbbbbeebbbeeebbbbbbbbbbbbeeeeebbbbbbbbbbbbbbbeebbbeeebbbbbbbbbbbbeeeeebbbbbbbbbbbbbbbeebbbeeebbbbbbbbbbbbeeeeebbbbbbbbbb
+bbbbeeebbbebbbbbbbbbddbbbeeeeebdbbbbbbbbbbbbeeebbbebbbbbbbbbddbbbeeeeebdbbbbbbbbbbbbeeebbbebbbbbbbbbddbbbeeeeebdbbbbbbbbbbbbeeebbbebbbbbbbbbddbbbeeeeebdbbbbbbbb
+bbbbeeebbbebbbbbbbbbbddbeeeeeebbddbbbbdbbbbbeeebbbebbbbbbbbbbddbeeeeeebbddbbbbdbbbbbeeebbbebbbbbbbbbbddbeeeeeebbddbbbbdbbbbbeeebbbebbbbbbbbbbddbeeeeeebbddbbbbdb
+bbbbeeebeeebbbbbbbbbbbbbeeeeeeebbdbbbddbbbbbeeebeeebbbbbbbbbbbbbeeeeeeebbdbbbddbbbbbeeebeeebbbbbbbbbbbbbeeeeeeebbdbbbddbbbbbeeebeeebbbbbbbbbbbbbeeeeeeebbdbbbddb
+ffbbeeeeeebbbbbbbbdbbbbbeeeeeeebbbbbbdbbffbbeeeeeebbbbbbbbdbbbbbeeeeeeebbbbbbdbbffbbeeeeeebbbbbbbbdbbbbbeeeeeeebbbbbbdbbffbbeeeeeebbbbbbbbdbbbbbeeeeeeebbbbbbdbb
+3ffbeeeeebbddbbbbddbbbbfeeeeeeefbbbbbbbbbffbeeeeebbddbbbbddbbbbfeeeeeeefbbbbbbbbbffbeeeeebbddbbbbddbbbbfeeeeeeefbbbbbbbbbffbeeeeebbddbbbbddbbbbfeeeeeeefbbbbbbbb
+3fffeeeeebbbddbbddbbfbffeeeeeeefbbbfbbbbbfffeeeeebbbddbbddbbfbffeeeeeeefbbbfbbbbbfffeeeeebbbddbbddbbfbffeeeeeeefbbbfbbbbbfffeeeeebbbddbbddbbfbffeeeeeeefbbbfbbbb
+3fffeeebbbbbbbbbdbbfffffeeeeeeeffbffbbfbbfffeeebbbbbbbbbdbbfffffeeeeeeeffbffbbfbbfffeeebbbbbbbbbdbbfffffeeeeeeeffbffbbfbbfffeeebbbbbbbbbdbbfffffeeeeeeeffbffbbfb
+ffffeeefbbbbbbbbbbbfffffeeeeeeeffffbbfffffffeeefbbbbbbbbbbbfffffeeeeeeeffffbbfffffffeeefbbbbbbbbbbbfffffeeeeeeeffffbbfffffffeeefbbbbbbbbbbbfffffeeeeeeeffffbbfff
+ffffeeefbbbfbbfffbbfffffeeeeeeefffffffffffffeeefbbbfbbfffbbfffffeeeeeeefffffffffffffeeefbbbfbbfffbbfffffeeeeeeefffffffffffffeeefbbbfbbfffbbfffffeeeeeeefffffffff
+ffffeeefbbfffbffffbfffffeeeeeeefffffffffffffeeefbbfffbffffbfffffeeeeeeefffffffffffffeeefbbfffbffffbfffffeeeeeeefffffffffffffeeefbbfffbffffbfffffeeeeeeefffffffff
+ffffeeefffffffffffffffffeeeeeeefffffffffffffeeefffffffffffffffffeeeeeeefffffffffffffeeefffffffffffffffffeeeeeeefffffffffffffeeefffffffffffffffffeeeeeeefffffffff
[2 lines of base64/hex data omitted]
+ffffeeeeffffffffffffffffeeeeeeefffffffffffffeeeeffffffffffffffffeeeeeeefffffffffffffeeeeffffffffffffffffeeeeeeefffffffffffffeeeeffffffffffffffffeeeeeeefffffffff
+ffffeeeeffffffffffffffffeeeeeeefffffffffffffeeeeffffffffffffffffeeeeeeefffffffffffffeeeeffffffffffffffffeeeeeeefffffffffffffeeeeffffffffffffffffeeeeeeefffffffff
+ffffeeeeffffffffffffffffeeeeeeefffffffffffffeeeeffffffffffffffffeeeeeeefffffffffffffeeeeffffffffffffffffeeeeeeefffffffffffffeeeeffffffffffffffffeeeeeeefffffffff
[1 lines of base64/hex data omitted]
+ffffeeeeefffffffffffffffeeeeeeefffffffffffffeeeeefffffffffffffffeeeeeeefffffffffffffeeeeefffffffffffffffeeeeeeefffffffffffffeeeeefffffffffffffffeeeeeeefffffffff
+ffffeeeeefffffffffffffffeeeeeeefffffffffffffeeeeefffffffffffffffeeeeeeefffffffffffffeeeeefffffffffffffffeeeeeeefffffffffffffeeeeefffffffffffffffeeeeeeefffffffff
[6 lines of base64/hex data omitted]
+bbbbbbbbbbbbbbbbbbbbbbbbbbbbbbbbbbbbbbbbbbbbbbbbbbbbbbbbbbbbbbbbbbbbbbbbbbbbbbbbbbbbbbbbbbbbbbbbbbbbbbbbbbbbbbbbbbbbbbbbbbbbbbbbbbbbbbbbbbbbbbbbbbbbbbbbbbbbbbbb
+bbbbbbbbbbbbbbbbbbbbbbbbbbbbbbbbbbbbbbbbbbbbbbbbbbbbbbbbbbbbbbbbbbbbbbbbbbbbbbbbbbbbbbbbbbbbbbbbbbbbbbbbbbbbbbbbbbbbbbbbbbbbbbbbbbbbbbbbbbbbbbbbbbbbbbbbbbbbbbbb
+bbbbbbbbbbbbbbbbbbbbbbbbbbbbbbbbbbbbbbbbbbbbbbbbbbbbbbbbbbbbbbbbbbbbbbbbbbbbbbbbbbbbbbbbbbbbbbbbbbbbbbbbbbbbbbbbbbbbbbbbbbbbbbbbbbbbbbbbbbbbbbbbbbbbbbbbbbbbbbbb
+bbbbbbbbbbbbbbbbbbbbbbbbbbbbbbbbbbbbbbbbbbbbbbbbbbbbbbbbbbbbbbbbbbbbbbbbbbbbbbbbbbbbbbbbbbbbbbbbbbbbbbbbbbbbbbbbbbbbbbbbbbbbbbbbbbbbbbbbbbbbbbbbbbbbbbbbbbbbbbbb
+bbbbbbbbbbbbbbbbbbbbbbbbbbbbbbbbbbbbbbbbbbbbbbbbbbbbbbbbbbbbbbbbbbbbbbbbbbbbbbbbbbbbbbbbbbbbbbbbbbbbbbbbbbbbbbbbbbbbbbbbbbbbbbbbbbbbbbbbbbbbbbbbbbbbbbbbbbbbbbbb
+bbbbbbbbbbbbbbbbbbbbbbbbbbbbbbbbbbbbbbbbbbbbbbbbbbbbbbbbbbbbbbbbbbbbbbbbbbbbbbbbbbbbbbbbbbbbbbbbbbbbbbbbbbbbbbbbbbbbbbbbbbbbbbbbbbbbbbbbbbbbbbbbbbbbbbbbbbbbbbbb
+bbbbbbbbbbbbbbbbbbbbbbbbbbbbbbbbbbbbbbbbbbbbbbbbbbbbbbbbbbbbbbbbbbbbbbbbbbbbbbbbbbbbbbbbbbbbbbbbbbbbbbbbbbbbbbbbbbbbbbbbbbbbbbbbbbbbbbbbbbbbbbbbbbbbbbbbbbbbbbbb
+bbbbbbbbbbbbbbbbbbbbbbbbbbbbbbbbbbbbbbbbbbbbbbbbbbbbbbbbbbbbbbbbbbbbbbbbbbbbbbbbbbbbbbbbbbbbbbbbbbbbbbbbbbbbbbbbbbbbbbbbbbbbbbbbbbbbbbbbbbbbbbbbbbbbbbbbbbbbbbbb
+bbbbbbbbbbbbbbbbbbbbbbbbbbbbbbbbbbbbbbbbbbbbbbbbbbbbbbbbbbbbbbbbbbbbbbbbbbbbbbbbbbbbbbbbbbbbbbbbbbbbbbbbbbbbbbbbbbbbbbbbbbbbbbbbbbbbbbbbbbbbbbbbbbbbbbbbbbbbbbbb
+bbbbbbbbbbbbbbbbbbbbbbbbbbbbbbbbbbbbbbbbbbbbbbbbbbbbbbbbbbbbbbbbbbbbbbbbbbbbbbbbbbbbbbbbbbbbbbbbbbbbbbbbbbbbbbbbbbbbbbbbbbbbbbbbbbbbbbbbbbbbbbbbbbbbbbbbbbbbbbbb
+bbbbbbbbbbbbbbbbbbbbbbbbbbbbbbbbbbbbbbbbbbbbbbbbbbbbbbbbbbbbbbbbbbbbbbbbbbbbbbbbbbbbbbbbbbbbbbbbbbbbbbbbbbbbbbbbbbbbbbbbbbbbbbbbbbbbbbbbbbbbbbbbbbbbbbbbbbbbbbbb
+bbbbbbbbbbbbbbbbbbbbbbbbbbbbbbbbbbbbbbbbbbbbbbbbbbbbbbbbbbbbbbbbbbbbbbbbbbbbbbbbbbbbbbbbbbbbbbbbbbbbbbbbbbbbbbbbbbbbbbbbbbbbbbbbbbbbbbbbbbbbbbbbbbbbbbbbbbbbbbbb
+bbbbbbbbbbbbbbbbbbbbbbbbbbbbbbbbbbbbbbbbbbbbbbbbbbbbbbbbbbbbbbbbbbbbbbbbbbbbbbbbbbbbbbbbbbbbbbbbbbbbbbbbbbbbbbbbbbbbbbbbbbbbbbbbbbbbbbbbbbbbbbbbbbbbbbbbbbbbbbbb
+bbbbbbbbbbbbbbbbbbbbbbbbbbbbbbbbbbbbbbbbbbbbbbbbbbbbbbbbbbbbbbbbbbbbbbbbbbbbbbbbbbbbbbbbbbbbbbbbbbbbbbbbbbbbbbbbbbbbbbbbbbbbbbbbbbbbbbbbbbbbbbbbbbbbbbbbbbbbbbbb
+bbbbbbbbbbbbbbbbbbbbbbbbbbbbbbbbbbbbbbbbbbbbbbbbbbbbbbbbbbbbbbbbbbbbbbbbbbbbbbbbbbbbbbbbbbbbbbbbbbbbbbbbbbbbbbbbbbbbbbbbbbbbbbbbbbbbbbbbbbbbbbbbbbbbbbbbbbbbbbbb
+bbbbbbbbbbbbbbbbbbbbbbbbbbbbbbbbbbbbbbbbbbbbbbbbbbbbbbbbbbbbbbbbbbbbbbbbbbbbbbbbbbbbbbbbbbbbbbbbbbbbbbbbbbbbbbbbbbbbbbbbbbbbbbbbbbbbbbbbbbbbbbbbbbbbbbbbbbbbbbbb
+bbbbbbbbbbbbbbbbbbbbbbbbbbbbbbbbbbbbbbbbbbbbbbbbbbbbbbbbbbbbbbbbbbbbbbbbbbbbbbbbbbbbbbbbbbbbbbbbbbbbbbbbbbbbbbbbbbbbbbbbbbbbbbbbbbbbbbbbbbbbbbbbbbbbbbbbbbbbbbbb
+bbbbbbbbbbbbbbbbbbbbbbbbbbbbbbbbbbbbbbbbbbbbbbbbbbbbbbbbbbbbbbbbbbbbbbbbbbbbbbbbbbbbbbbbbbbbbbbbbbbbbbbbbbbbbbbbbbbbbbbbbbbbbbbbbbbbbbbbbbbbbbbbbbbbbbbbbbbbbbbb
+bbbbbbbbbbbbbbbbbbbbbbbbbbbbbbbbbbbbbbbbbbbbbbbbbbbbbbbbbbbbbbbbbbbbbbbbbbbbbbbbbbbbbbbbbbbbbbbbbbbbbbbbbbbbbbbbbbbbbbbbbbbbbbbbbbbbbbbbbbbbbbbbbbbbbbbbbbbbbbbb
+bbbbbbbbbbbbbbbbbbbbbbbbbbbbbbbbbbbbbbbbbbbbbbbbbbbbbbbbbbbbbbbbbbbbbbbbbbbbbbbbbbbbbbbbbbbbbbbbbbbbbbbbbbbbbbbbbbbbbbbbbbbbbbbbbbbbbbbbbbbbbbbbbbbbbbbbbbbbbbbb
+bbbbbbbbbbbbbbbbbbbbbbbbbbbbbbbbbbbbbbbbbbbbbbbbbbbbbbbbbbbbbbbbbbbbbbbbbbbbbbbbbbbbbbbbbbbbbbbbbbbbbbbbbbbbbbbbbbbbbbbbbbbbbbbbbbbbbbbbbbbbbbbbbbbbbbbbbbbbbbbb
+bbbbbbbbbbbbbbbbbbbbbbbbbbbbbbbbbbbbbbbbbbbbbbbbbbbbbbbbbbbbbbbbbbbbbbbbbbbbbbbbbbbbbbbbbbbbbbbbbbbbbbbbbbbbbbbbbbbbbbbbbbbbbbbbbbbbbbbbbbbbbbbbbbbbbbbbbbbbbbbb
+bbbbbbbbbbbbbbbbbbbbbbbbbbbbbbbbbbbbbbbbbbbbbbbbbbbbbbbbbbbbbbbbbbbbbbbbbbbbbbbbbbbbbbbbbbbbbbbbbbbbbbbbbbbbbbbbbbbbbbbbbbbbbbbbbbbbbbbbbbbbbbbbbbbbbbbbbbbbbbbb
+bbbbbbbbbbbbbbbbbbbbbbbbbbbbbbbbbbbbbbbbbbbbbbbbbbbbbbbbbbbbbbbbbbbbbbbbbbbbbbbbbbbbbbbbbbbbbbbbbbbbbbbbbbbbbbbbbbbbbbbbbbbbbbbbbbbbbbbbbbbbbbbbbbbbbbbbbbbbbbbb
+bbbbbbbbbbbbbbbbbbbbbbbbbbbbbbbbbbbbbbbbbbbbbbbbbbbbbbbbbbbbbbbbbbbbbbbbbbbbbbbbbbbbbbbbbbbbbbbbbbbbbbbbbbbbbbbbbbbbbbbbbbbbbbbbbbbbbbbbbbbbbbbbbbbbbbbbbbbbbbbb
+bbbbbbbbbbbbbbbbbbbbbbbbbbbbbbbbbbbbbbbbbbbbbbbbbbbbbbbbbbbbbbbbbbbbbbbbbbbbbbbbbbbbbbbbbbbbbbbbbbbbbbbbbbbbbbbbbbbbbbbbbbbbbbbbbbbbbbbbbbbbbbbbbbbbbbbbbbbbbbbb
+bbbbbbbbbbbbbbbbbbbbbbbbbbbbbbbbbbbbbbbbbbbbbbbbbbbbbbbbbbbbbbbbbbbbbbbbbbbbbbbbbbbbbbbbbbbbbbbbbbbbbbbbbbbbbbbbbbbbbbbbbbbbbbbbbbbbbbbbbbbbbbbbbbbbbbbbbbbbbbbb
+bbbbbbbbbbbbbbbbbbbbbbbbbbbbbbbbbbbbbbbbbbbbbbbbbbbbbbbbbbbbbbbbbbbbbbbbbbbbbbbbbbbbbbbbbbbbbbbbbbbbbbbbbbbbbbbbbbbbbbbbbbbbbbbbbbbbbbbbbbbbbbbbbbbbbbbbbbbbbbbb
+bbbbbbbbbbbbbbbbbbbbbbbbbbbbbbbbbbbbbbbbbbbbbbbbbbbbbbbbbbbbbbbbbbbbbbbbbbbbbbbbbbbbbbbbbbbbbbbbbbbbbbbbbbbbbbbbbbbbbbbbbbbbbbbbbbbbbbbbbbbbbbbbbbbbbbbbbbbbbbbb
+`;
+            case "OFYbYQ+AI7Yoh2qY-Z]f":
+            case "Snow":return img`
+......................bbb.......
+....................bb111b......
+.................bbb111d11b.....
+................bb111111d1a.....
+..............bb11112eeeedba....
+............bbb111123eee2e1a....
+..........bbd111111e22222ed1a...
+.......bbbdd1111111e22222edda...
+......bb1d111111111be222eb1d1a..
+...bbb1dd11111111111beeeb11d1a..
+..b1ddd11111111111111111111dda..
+bbddd1111111111111111111111dd1a.
+b11dddddd1111111111111111111d1a.
+bb1111111ddddd11111111111111dda.
+bbbbbbb111dd11dddddddddd1111ddba
+b55553bbbbbb1111dd11111ddd11dd1a
+b555555555551bbbbbbbb11111dddd1a
+bd555555555555555dddbaaaaab1d1ba
+bb55555555555555555dddddddbb11ba
+b3bb35555555555d5555d55dddddbbba
+b33333bbb355dd55555d555ddddddbba
+b5555d333333bbb35dddddd55ddddbba
+b5d555dd5553333bbbbb3ddddddddb1a
+b5d555555555555dd3333bbbbbb3db1a
+bd5d555555d55555dd555ddbbbbbbb1a
+bbb55dd555555555555555ddddddbb1a
+...bbbbdd555ddd5555ddddddddddb1a
+.......bbbb555555d5ddd5ddddddb1a
+...........bbbb55555555555dd511a
+...............bbbbddd5d55d5b1ba
+...................bbbbddddb3ba.
+.......................bbbaaaa..
 `;
         }
         return null;

diff --git a/tilemap.g.ts b/tilemap.g.ts
@@ -1,0 +1,14 @@
+// Auto-generated code. Do not edit.
+namespace myTiles {
+    //% fixedInstance jres blockIdentity=images._tile
+    export const transparency16 = image.ofBuffer(hex``);
+
+    helpers._registerFactory("tile", function(name: string) {
+        switch(helpers.stringTrim(name)) {
+            case "transparency16":return transparency16;
+        }
+        return null;
+    })
+
+}
+// Auto-generated code. Do not edit.

diff --git a/main.ts b/main.ts
@@ -8,7 +8,7 @@ effects.starField.startScreenEffect()
 scene.setBackgroundImage(assets.image`Stage`)
 game.setDialogTextColor(15)
 game.showLongText("Press A to start", DialogLayout.Center)
-scene.setBackgroundImage(assets.image`backround`)
+scene.setBackgroundImage(assets.image`Winter_Tree_Background_Night`)
 game.setDialogTextColor(15)
 mySprite4 = sprites.create(assets.image`Snow`, SpriteKind.Player)
 mySprite4.setPosition(123, 88)
